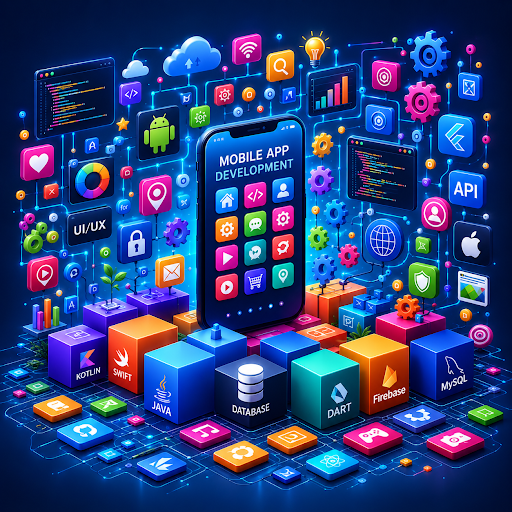
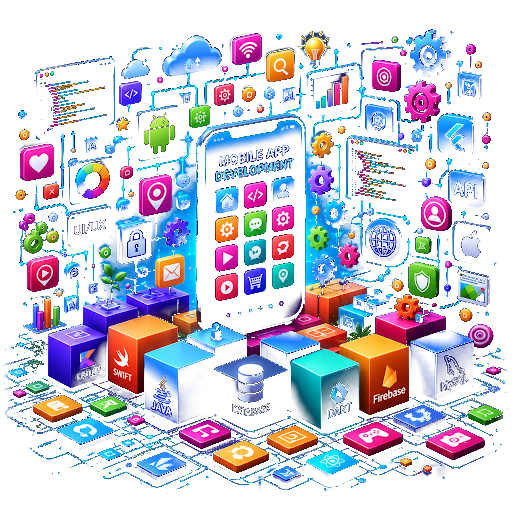
image blended with backgroung

diff --git a/codiin/app/globals.css b/codiin/app/globals.css
@@ -25,7 +25,10 @@
 
     /* Gradients */
     --gradient-primary: linear-gradient(135deg, #6366f1 0%, #8b5cf6 100%);
-    --gradient-hero: linear-gradient(135deg, #1e293b 0%, #334155 50%, #1e293b 100%);
+    /* Tuned to the artwork: the hero and course images average rgb(10,12,48)
+       at their edges, so the backdrop sits in the same deep indigo instead of
+       the old mid-slate, which made every image read as a dark block. */
+    --gradient-hero: linear-gradient(135deg, #070a24 0%, #141a44 50%, #090c2c 100%);
     --gradient-text: linear-gradient(135deg, #6366f1 0%, #8b5cf6 50%, #06b6d4 100%);
 
     /* Shadows */
@@ -5206,4 +5209,59 @@ pre code {
    at 320px it opens up to ~1.29, which is what the wrapped lines need. */
 .hero-title {
     line-height: calc(0.94em + 0.61rem);
+}
+
+/* ============================================================================
+   IMAGE BLENDING
+   The artwork was framed as a card — rounded corners, a hairline border and a
+   drop shadow — which is what made it read as a box pasted onto the page.
+   ============================================================================ */
+
+.hero-image,
+.program-hero-img,
+.about-img {
+    border: 0;
+    border-radius: 0;
+    box-shadow: none;
+}
+
+/* The nine course images carry their own transparency now — the PNGs in
+   public/img/programs were reprocessed so the artwork's own backdrop is alpha
+   0. That is why there is no rule for .program-hero-img here: there is no
+   rectangle left to mask, and no dark field left to blend away, so they render
+   normally and keep their authored colour and brightness.
+
+   Doing it in the asset rather than in CSS was the only thing that fully
+   worked. Each image has a different backdrop — near-black for most, a bright
+   blue gradient for two — so a single mask could never fit them all, and a
+   mask cannot remove a *bright* backdrop at any threshold. */
+
+/* The About artwork is a pale scene on a near-white section: multiply drops its
+   backdrop into the page colour, the mask feathers the frame. */
+.about-img {
+    -webkit-mask-image:
+        linear-gradient(to right, transparent 0%, #000 14%, #000 86%, transparent 100%),
+        linear-gradient(to bottom, transparent 0%, #000 12%, #000 88%, transparent 100%);
+    mask-image:
+        linear-gradient(to right, transparent 0%, #000 14%, #000 86%, transparent 100%),
+        linear-gradient(to bottom, transparent 0%, #000 12%, #000 88%, transparent 100%);
+    -webkit-mask-composite: source-in;
+    mask-composite: intersect;
+    mix-blend-mode: multiply;
+}
+
+/* The hero artwork is a lit room rather than an object on black, so it is the
+   one image whose backdrop could not be thresholded away — the ramp that
+   clears a black field also erases the desk, the walls and the figure, since
+   the whole scene is dim. What is baked into hero.png is a radial vignette
+   only, which is why there is no mask here: the asset has no straight edge
+   left to feather.
+
+   `screen` still earns its place — it drops the artwork's blacks into the
+   section so the room reads as lit from within the page. The filter pays back
+   the contrast screen flattens: lifting the blacks reads as a dimmer image
+   even though nothing was darkened. */
+.hero-image {
+    mix-blend-mode: screen;
+    filter: brightness(1.5) contrast(1.4) saturate(1.45);
 }
